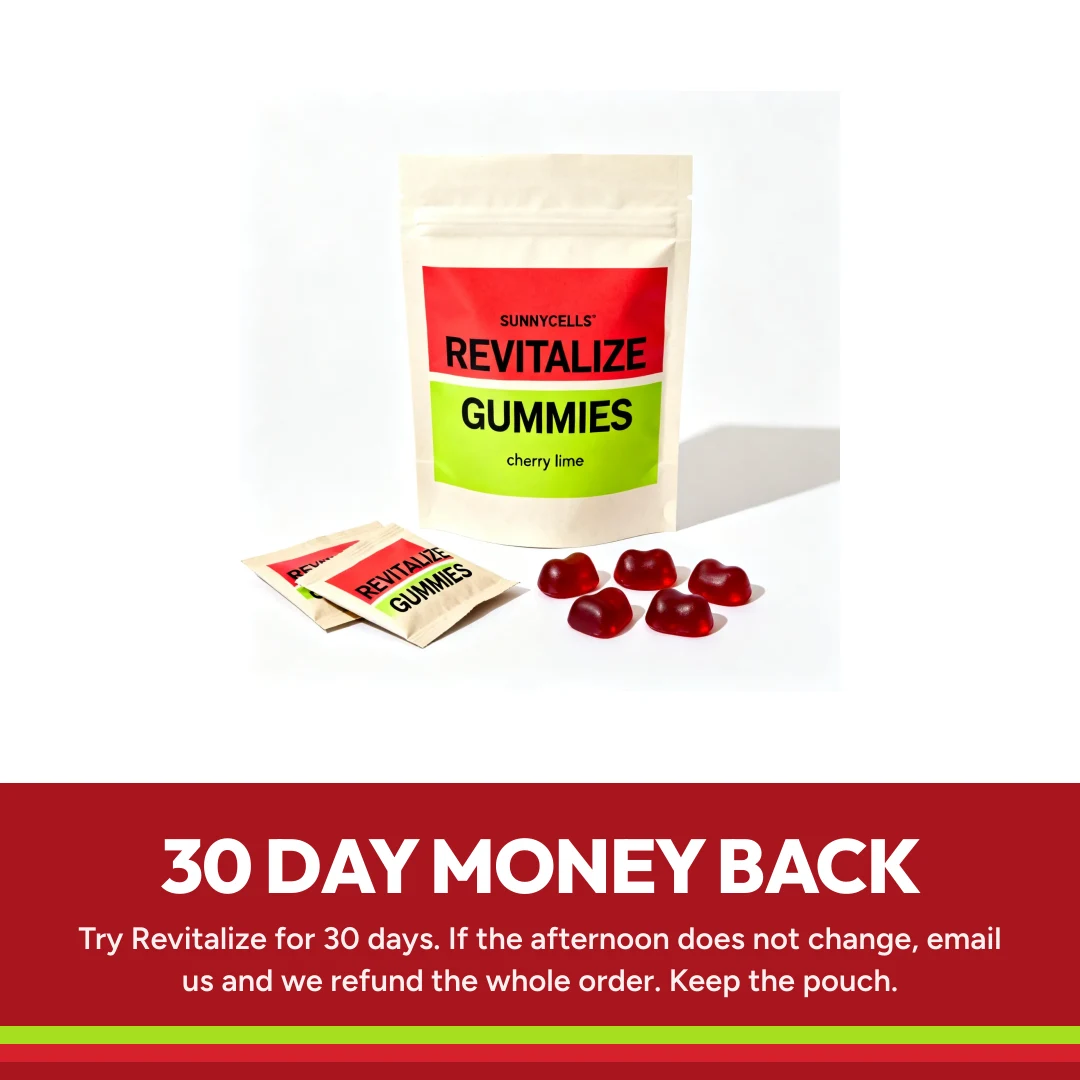
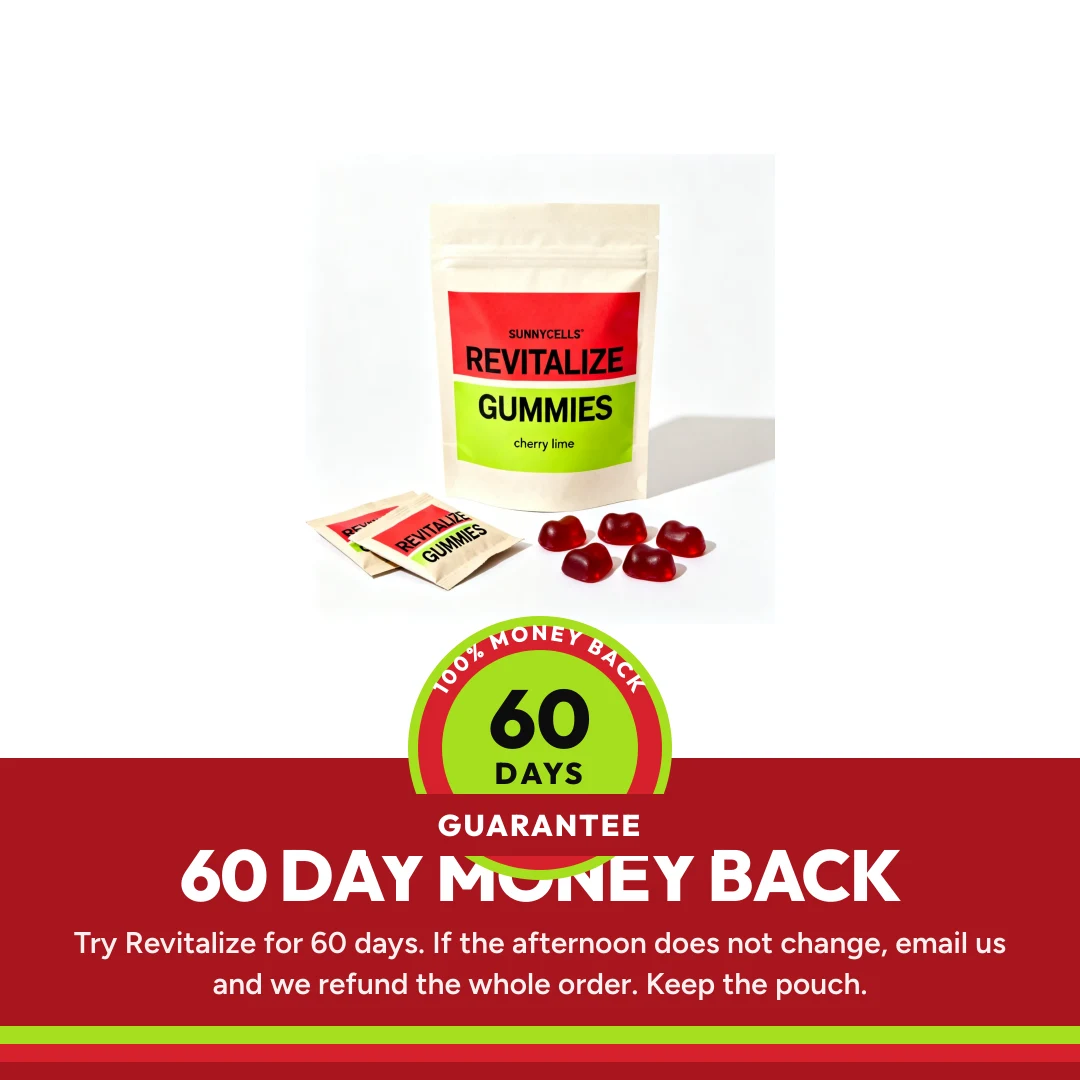
Sixty day guarantee, new reviews, and the footer gap
The guarantee is 60 days and now says so on every surface: the panel, the
FAQ, the subscriber benefits, both advertorials, the product page and the
carousel slide, which is re-rendered. Four of them were hardcoded in
components rather than coming from the content files.

The guarantee badge on slide 8 is drawn in the renderer rather than dropped
in as stock art, so it lands on brand, scales, and the number stays
editable the next time the term moves.

Four new reviews as supplied. How to use is now one pack in the morning,
chewed thoroughly, with 8 to 16 fl oz of water.

Whitespace under the footer was .page reserving 6.5rem for the sticky bar,
which read as a white band below the ivory. The reservation moved onto the
footer, which owns the colour. On the product page that first did nothing,
because a padding shorthand sat after the longhand and reset it: same trap
as the advertorial section padding earlier in this project. Measured zero
px below the footer on both pages at three widths.

Retitles reason two to Cortisol Face, bolds and underlines each value prop
up to its colon, and replaces the belly, greying and snacking photographs.

Changed region(s): [[0.0, 0.1222, 1.0, 0.9472]]

diff --git a/lib/content/revitalize-ten.ts b/lib/content/revitalize-ten.ts
@@ -56,7 +56,7 @@ export const REASONS: Reason[] = [
   { n: 1, title: "It shrinks stubborn \u201cCortisol Belly\u201d",
     body: "High stress triggers your body to store visceral fat around your midsection. Revitalize uses Niacinamide and Magnesium Glycinate to mute the stress response at the cellular level, signaling your body to stop hoarding emergency fat and finally let go of lower-belly weight.",
     photo: "/photos/revitalize/effects/middle.webp", alt: "Side profile of a middle aged man in a t-shirt, a soft belly visible in profile against a plain wall" },
-  { n: 2, title: "It flushes away morning \u201cPuffy Face\u201d",
+  { n: 2, title: "It flushes away \u201cCortisol Face\u201d",
     body: "Unmanaged cortisol disrupts fluid balance, leaving you swollen and heavy-looking. The Magnesium Glycinate in Revitalize helps restore fluid regulation and relax micro-vessels, flushing out morning retention so you wake up with a defined face.",
     photo: "/photos/revitalize/effects/puffy.webp", alt: "A woman sitting on the edge of a bed just after waking, face puffy around the eyes and cheeks, pillow crease on one cheek" },
   { n: 3, title: "It stops early wrinkles before they start",
@@ -73,7 +73,7 @@ export const REASONS: Reason[] = [
     photo: "/photos/revitalize/effects/eyes.webp", alt: "Close on a woman's face in a bathroom, dark shadows and puffiness under both eyes" },
   { n: 7, title: "It fights stress-induced gray hair",
     body: "Chronic stress depletes the follicle stem cells that produce natural hair pigment. Revitalize delivers Niacinamide to shield hair follicles from oxidative stress, helping preserve your natural hair color and strand vitality.",
-    photo: "/photos/revitalize/effects/graying.webp", alt: "Close on the side of a man's head, grey hairs scattered through darker hair at the temple" },
+    photo: "/photos/revitalize/effects/graying.webp", alt: "A woman lifting her hair back from her parting to show grey strands running through the roots" },
   { n: 8, title: "It\u2019s built with 100% clean ingredients",
     body: "No cheap fillers, synthetic dyes, seed oils, or numbing herbs like Ashwagandha. Every chew of Revitalize uses pure, highly bioavailable ingredients, like Bovine Gelatin and Magnesium Glycinate, to support cellular metabolism naturally.",
     photo: "/product/revitalize/carousel/03-inside.webp", fit: "contain",
@@ -96,29 +96,32 @@ export const REVIEWS_TITLE = "What people are saying about Revitalize";
 
 /** PLACEHOLDER. None of these people exist. */
 export const REVIEWS = [
-  { headline: "I stopped raiding the cupboard at half three.",
-    body: "I take them with coffee about nine. By the time three comes round I am not hunting for something sweet, which has never been true before. Cannot tell you anything about my metabolism. Can tell you about that.",
+  { headline: "Finally stopped raiding the office pantry at 3:30.",
+    body: "I take four of these with my morning coffee around 9 AM. By the time 3 PM rolls around, I\u2019m not mindlessly hunting for sugar, which has literally never happened before. I can\u2019t speak to all the cellular science, but the lack of afternoon cravings is very real.",
     name: "Priya M.", place: "Austin, TX", photo: "/photos/revitalize/ugc/holding.webp" },
-  { headline: "Ten grams of protein in a sweet.",
-    body: "Bought it for the protein honestly. Four gummies is easier than a shake at my desk and it does not need washing up. Cherry lime is not sickly, which I was worried about.",
+  { headline: "Way easier than mixing a protein shake at my desk.",
+    body: "Bought these to help bridge the gap between lunch and dinner. Popping four gummies is so much cleaner than shaking up a chalky powder at my keyboard and washing out a cup in the office sink. Cherry Lime actually tastes like real fruit, not overly sweet chemical candy.",
     name: "Dan W.", place: "Columbus, OH", photo: "/photos/revitalize/ugc/desk-overhead.webp" },
-  { headline: "The magnesium is the bit doing something for me.",
-    body: "I am not lying there at eleven going over the day the way I was. Everything else I am taking on faith, and I am fine with that because they say which bits are which.",
+  { headline: "My brain actually shuts off when my head hits the pillow.",
+    body: "The stress and magnesium combo is doing heavy lifting for me. I used to lie in bed at 11 PM replaying Slack messages and meeting notes in my head for an hour. Now I actually wind down. Waking up without that heavy, puffy morning face is just a massive bonus.",
     name: "Marguerite S.", place: "Portland, OR", photo: "/photos/revitalize/ugc/palm.webp" },
-  { headline: "Honest report at two months.",
-    body: "Down about six pounds but I also started walking at lunch, so I am not going to pretend it was the gummies. What did change is I stopped grazing after dinner.",
+  { headline: "Honest 60-day update.",
+    body: "Down about 6 pounds, but I also started walking on my lunch break, so I\u2019m not going to pretend this is some magic weight-loss chew. What did change is that my stress-snacking completely stopped. I\u2019m no longer grazing through the pantry after dinner.",
     name: "Tom R.", place: "Nashville, TN", photo: "/photos/revitalize/ugc/car.webp" },
 ];
+
 
 export const OFFER = {
   customers: "2,417 reviews",
   ingredientsLink: "See the full ingredient list",
   title: "Daily chews to keep your high-stress workweeks from prematurely aging you",
+  /* Split at the colon: the lead-in is the scannable half, so it carries the weight
+     and the rule while the explanation stays plain. */
   bullets: [
-    "Kills Snack Room Cravings: Keeps your energy steady all afternoon so you stop hunting for snacks",
-    "Fights Cortisol Belly: Helps your body stop hoarding stubborn stress fat around your midsection",
-    "Combats Early Wrinkles: Protects your collagen matrix from daily work stress so skin stays firm",
-    "Clean, Steady Energy: Lifts afternoon brain fog and fatigue without jitters, crashes, or anxiety",
+    { lead: "Kills Snack Room Cravings:", rest: " Keeps your energy steady all afternoon so you stop hunting for snacks" },
+    { lead: "Fights Cortisol Belly:", rest: " Helps your body stop hoarding stubborn stress fat around your midsection" },
+    { lead: "Combats Early Wrinkles:", rest: " Protects your collagen matrix from daily work stress so skin stays firm" },
+    { lead: "Clean, Steady Energy:", rest: " Lifts afternoon brain fog and fatigue without jitters, crashes, or anxiety" },
   ],
   servings: "28 daily sachets per pouch",
   cadence: "Delivered fresh monthly. Pause, skip, or cancel anytime.",
@@ -128,13 +131,13 @@ export const OFFER = {
     "50% off your first order",
     "Free shipping always",
     "Cancel or pause anytime",
-    "30 day money back guarantee",
+    "60 day money back guarantee",
     "First access to new products",
   ],
   accordions: [
     { title: "Ingredients", body: "10 g protein from bovine gelatin, glucomannan 500 mg, magnesium glycinate 60 mg, vitamin C 90 mg from acerola, vitamin D3 25 mcg, B1, B3 and B5 at 100% DV, lutein and zeaxanthin 5 mg, sweetened with allulose. Full panel on the product page." },
-    { title: "Guarantee", body: "30 days, whole order refunded, and you keep the pouch. Email us inside the window." },
-    { title: "How to use", body: "One sachet a day. Tear it open and chew all four. Any time of day, with or without food. Take oral medication an hour either side, as glucomannan can slow absorption." },
+    { title: "Guarantee", body: "60 days, whole order refunded, and you keep the pouch. Email us inside the window." },
+    { title: "How to use", body: "One pack a day, taken in the morning with or without food. Chew all four thoroughly. Take with 8 to 16 fl oz of water for best effect." },
   ],
 };
 

diff --git a/lib/products/revitalize.ts b/lib/products/revitalize.ts
@@ -115,7 +115,7 @@ export const GALLERY = [
   { src: "/product/revitalize/carousel/05-compare.webp", alt: "Revitalize compared with coffee and a multivitamin across energy without a crash, 10 g of protein, feeding what cortisol spends, staying full to dinner, being something you look forward to, and every dose printed on the front" },
   { src: "/product/revitalize/carousel/06-faq.webp", alt: "Frequently asked questions: what Revitalize is, how it works, whether there is caffeine in it, and how long until you notice" },
   { src: "/product/revitalize/carousel/07-honesty.webp", alt: "We print the weak claims too: every claim on the product page carries an evidence grade and six carry a caveat we wrote ourselves" },
-  { src: "/product/revitalize/carousel/08-guarantee.webp", alt: "30 day money back. Try Revitalize for 30 days, and if the afternoon does not change we refund the whole order" },
+  { src: "/product/revitalize/carousel/08-guarantee.webp", alt: "60 day money back. Try Revitalize for 60 days, and if the afternoon does not change we refund the whole order" },
 ] as const;
 
 /* The eight argument slides on their own. The listicle's offer carousel runs these and
@@ -157,7 +157,7 @@ export const TRUST = [
   "Third-party tested every batch",
   "Made in the USA, GMP-certified facility",
   "Free shipping, arrives in 3 to 5 days",
-  "30 day money back guarantee",
+  "60 day money back guarantee",
 ] as const;
 
 /**
@@ -432,7 +432,7 @@ export const FAQ = [
   { q: "Can I take it with other supplements or medication?",
     a: `With most supplements, yes. Glucomannan can slow the absorption of oral medication, so take those an hour either side. If you are pregnant, nursing, or on prescription medication, speak to your doctor first, and email ${SUPPORT_EMAIL} if you want the full panel to show them.` },
   { q: "What if I do not like them?",
-    a: `Email ${SUPPORT_EMAIL} inside 30 days and we refund the whole order. You keep the pouch.` },
+    a: `Email ${SUPPORT_EMAIL} inside 60 days and we refund the whole order. You keep the pouch.` },
   { q: "Where is it made?",
     a: "Made in the USA, in a facility that follows current Good Manufacturing Practice. Every batch goes to an independent lab before it ships." },
 ] as const;
@@ -440,7 +440,7 @@ export const FAQ = [
 export const INCLUDED = [
   { n: "28", label: "daily sachets", body: "One a day for four weeks. Four gummies in each." },
   { n: "Free", label: "shipping", body: "On every order, every time, with no minimum." },
-  { n: "30 days", label: "money back", body: "Email us and we refund it. You keep the pouch." },
+  { n: "60 days", label: "money back", body: "Email us and we refund it. You keep the pouch." },
   { n: "2 clicks", label: "to cancel", body: "Skip a delivery or stop entirely from your account." },
 ] as const;
 
@@ -467,7 +467,7 @@ export const DISCLAIMER =
 export const FACTS = {
   servingSize: "One sachet (4 gummies, approx. 28 g)",
   servingsPerContainer: 28,
-  suggestedUse: "Take one sachet daily. Do not exceed one sachet per day.",
+  suggestedUse: "One pack a day, taken in the morning with or without food. Chew all four thoroughly. Take with 8 to 16 fl oz of water for best effect. Do not exceed one pack per day.",
   callout: {
     headline: "10 g of protein per sachet",
     parts: [

diff --git a/components/advertorial/revitalize-ten.module.css b/components/advertorial/revitalize-ten.module.css
@@ -15,7 +15,6 @@
 
   background: var(--surface-page);
   color: var(--text-primary);
-  padding-bottom: 6.5rem;
 }
 
 .wrap { width: 100%; max-width: 46rem; margin: 0 auto; padding: 0 1.25rem; }
@@ -139,6 +138,10 @@
 
 .bullets { list-style: none; margin: 0; padding: 0; display: grid; gap: 0.625rem; }
 .bullets li { display: grid; grid-template-columns: 28px 1fr; align-items: start; font-size: var(--size-body); }
+.bulletLead {
+  font-weight: 800; text-decoration: underline;
+  text-decoration-thickness: 2px; text-underline-offset: 3px;
+}
 .tick {
   width: 20px; height: 20px; border-radius: 50%; background: var(--reds); color: var(--white);
   display: grid; place-items: center; margin-top: 3px;
@@ -194,7 +197,7 @@
 
 /* ---------- footer and sticky ---------- */
 .smallPrint { color: var(--ink-60); font-size: var(--size-meta); line-height: 1.55; margin: 1rem 0 0; }
-.footer { background: var(--ivory); margin-top: 2rem; }
+.footer { background: var(--ivory); margin-top: 2rem; padding-bottom: 6.5rem; }
 .disclosure { margin: 0; color: var(--ink-80); font-size: var(--size-meta); line-height: 1.55; }
 .footNav { display: flex; flex-wrap: wrap; justify-content: center; gap: 0.5rem 1.5rem; margin: 1.5rem 0 1rem; }
 .footNav a {

diff --git a/components/advertorial/RevitalizeTenPage.tsx b/components/advertorial/RevitalizeTenPage.tsx
@@ -185,11 +185,14 @@ export function RevitalizeTenPage() {
 
               <ul className={styles.bullets}>
                 {OFFER.bullets.map((b) => (
-                  <li key={b}>
+                  <li key={b.lead}>
                     <span className={styles.tick} aria-hidden="true">
                       <Icon name="check" size={13} strokeWidth={3.5} />
                     </span>
-                    {b}
+                    <span>
+                      <strong className={styles.bulletLead}>{b.lead}</strong>
+                      {b.rest}
+                    </span>
                   </li>
                 ))}
               </ul>
@@ -206,7 +209,7 @@ export function RevitalizeTenPage() {
 
               <div className={styles.offerFlagRow}>
                 <OfferFlag size="sm" />
-                <span className={styles.terms}>Free shipping &middot; 30 day money back</span>
+                <span className={styles.terms}>Free shipping &middot; 60 day money back</span>
               </div>
 
               <div className={styles.benefits}>

diff --git a/components/revitalize/RevitalizePage.tsx b/components/revitalize/RevitalizePage.tsx
@@ -129,7 +129,7 @@ export function RevitalizePage() {
 
               <Button fullWidth variant="accent" size="lg" onClick={toBuy}>Try now and save 50%</Button>
               <p className={styles.termsLine}>
-                Try it risk free for 30 days. Free shipping, and you can cancel in two clicks.
+                Try it risk free for 60 days. Free shipping, and you can cancel in two clicks.
               </p>
             </div>
 
@@ -402,7 +402,7 @@ export function RevitalizePage() {
                 Free shipping &nbsp;|&nbsp; {chosen.sub} &nbsp;|&nbsp; Cancel anytime
               </p>
               <p className={`${styles.termsLine} ${styles.ctaTerms}`}>
-                30 day money back guarantee, and you can skip or cancel in two clicks.
+                60 day money back guarantee, and you can skip or cancel in two clicks.
               </p>
             </div>
           </div>

diff --git a/components/revitalize/revitalize.module.css b/components/revitalize/revitalize.module.css
@@ -19,7 +19,6 @@
 
   background: var(--surface-page);
   color: var(--text-primary);
-  padding-bottom: 6.5rem;
 }
 
 .wrap { width: 100%; max-width: 72rem; margin: 0 auto; padding: 0 1.25rem; }
@@ -289,7 +288,8 @@ a.ratingRow .ratingScore { text-decoration: underline; text-underline-offset: 3p
 .quoteShot { width: 5rem; height: 5rem; border-radius: 50%; object-fit: cover; }
 
 /* ---------- footer ---------- */
-.footer { background: var(--ink); color: var(--white); padding: 2.5rem 0 1.5rem; margin-top: 2rem; }
+.footer {
+  background: var(--ink); color: var(--white); padding: 2.5rem 0 6.5rem; margin-top: 2rem; }
 .footer p { font-size: var(--size-meta); line-height: 1.55; color: var(--ink-20); margin: 0 0 1rem; }
 .footerLinks {
   display: flex; flex-wrap: wrap; gap: 0.5rem 1.5rem; justify-content: center;

diff --git a/components/advertorial/RevitalizePage.tsx b/components/advertorial/RevitalizePage.tsx
@@ -306,7 +306,7 @@ export function RevitalizeAdvertorial() {
               Try now and save ${saving}
             </Button>
             <p className={styles.offerTerms} style={{ textAlign: "center", marginTop: "0.75rem" }}>
-              Free shipping &nbsp;|&nbsp; {chosen.sub} &nbsp;|&nbsp; 30 day money back guarantee
+              Free shipping &nbsp;|&nbsp; {chosen.sub} &nbsp;|&nbsp; 60 day money back guarantee
             </p>
             <p className={styles.smallPrint} style={{ textAlign: "center" }}>
               Questions before you buy? <a href={`mailto:${SUPPORT_EMAIL}`}>{SUPPORT_EMAIL}</a>

diff --git a/lib/products/revitalize-carousel.ts b/lib/products/revitalize-carousel.ts
@@ -125,8 +125,8 @@ export const SLIDES = {
   guarantee: {
     file: "08-guarantee",
     photo: "/product/revitalize/studio.webp",
-    title: "30 day money back",
-    body: "Try Revitalize for 30 days. If the afternoon does not change, email us and we refund the whole order. Keep the pouch.",
+    title: "60 day money back",
+    body: "Try Revitalize for 60 days. If the afternoon does not change, email us and we refund the whole order. Keep the pouch.",
   },
 } as const;
 

diff --git a/lib/content/revitalize.ts b/lib/content/revitalize.ts
@@ -316,7 +316,7 @@ export const TRUST = [
   "Third-party tested every batch",
   "Made in the USA, GMP-certified facility",
   "65 calories, no added sugar",
-  "30 day money back guarantee",
+  "60 day money back guarantee",
 ] as const;
 
 /** PLACEHOLDER reviews. None of these people exist. */
